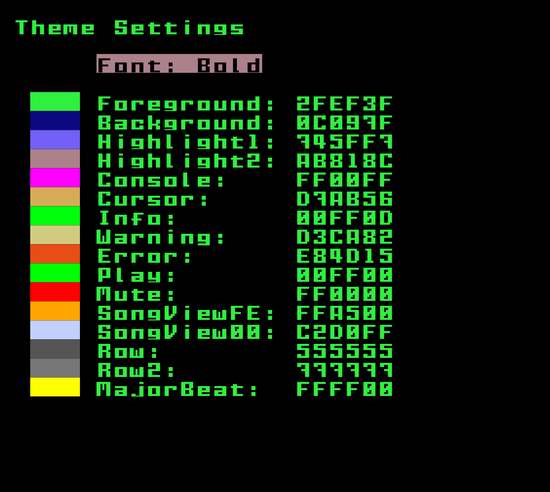
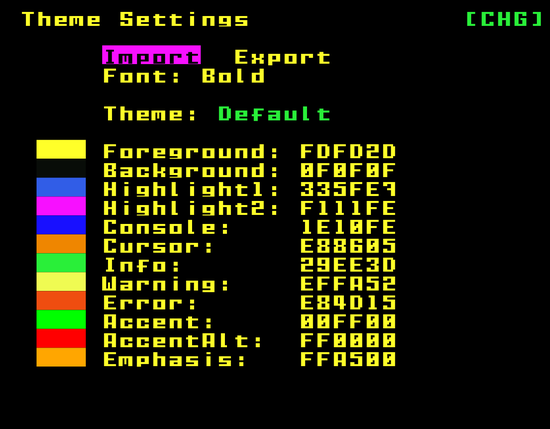
update theme section of user manual

Changed region(s): [[0.0309, 0.0, 0.7418, 0.8788], [0.8345, 0.0, 0.9891, 0.0606]]

diff --git a/usermanual/content/pages/theme.md b/usermanual/content/pages/theme.md
@@ -48,6 +48,33 @@ Next to each color setting, a small color swatch is displayed to show you the cu
 
 All changes to the theme settings are automatically saved to the SD card as you make them. This ensures your customized theme will be preserved even when you power off the picoTracker.
 
+## Importing and Exporting Themes
+
+picoTracker allows you to import and export theme files (.ptt), making it easy to share your custom themes with others or back up your favorite color schemes.
+
+### Exporting a Theme
+
+1. Navigate to the Theme settings screen
+2. Press the **EXPORT** button (or **NAV+EXPORT** if using a different control scheme)
+3. Enter a name for your theme using the on-screen keyboard
+4. Press **ENTER** to confirm
+
+Your theme will be saved as a `.ptt` file in the `themes` directory on your SD card. If a theme with the same name already exists, you'll be asked if you want to overwrite it.
+
+### Importing a Theme
+
+1. Navigate to the Theme settings screen
+2. Press the **IMPORT** button (or **NAV+IMPORT** if using a different control scheme)
+3. Browse the file list to find the `.ptt` file you want to import
+4. Select the file and press **PLAY** to import it
+
+The imported theme will be immediately applied to the interface. The theme name will be updated to match the imported file's name (without the .ptt extension).
+
+### Theme File Location
+
+- Exported themes are saved in: `/themes/[theme-name].ptt`
+- When importing, the system will look for `.ptt` files in the root directory and any subdirectories
+
 ## Tips for Creating Custom Themes
 
 * Be **VERY** careful when changing the foreground and background colors to not use the same or very similar color for both! 
@@ -55,3 +82,4 @@ All changes to the theme settings are automatically saved to the SD card as you 
 * Consider using complementary colors for highlights to make important elements stand out
 * If you're performing in low-light conditions, consider using darker background colors to reduce screen glare
 * For better visibility in bright environments, use higher contrast between foreground and background colors
+* When sharing themes, consider including the theme name in the filename for easy identification
